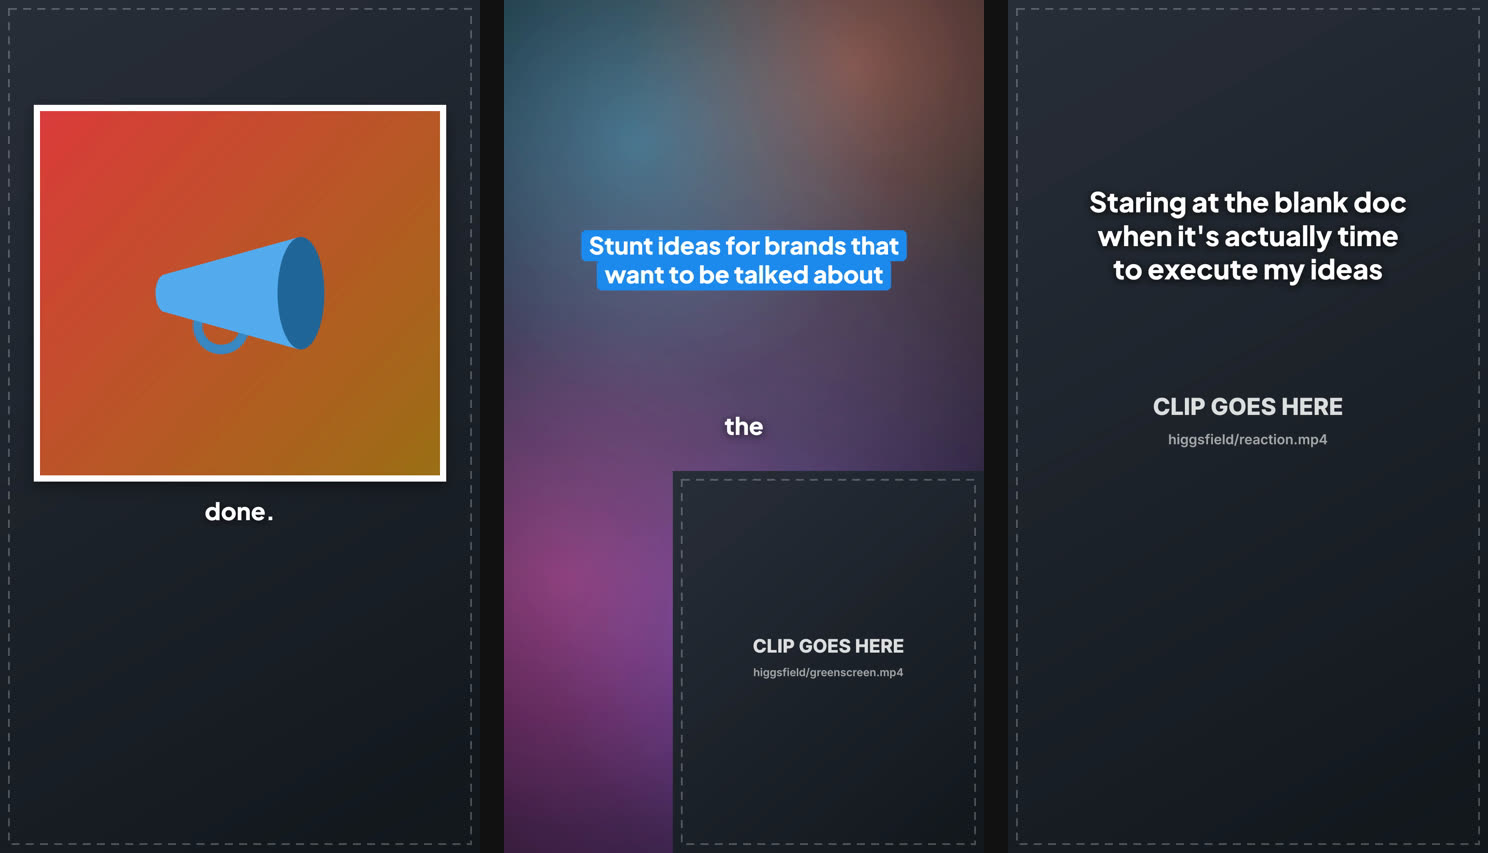
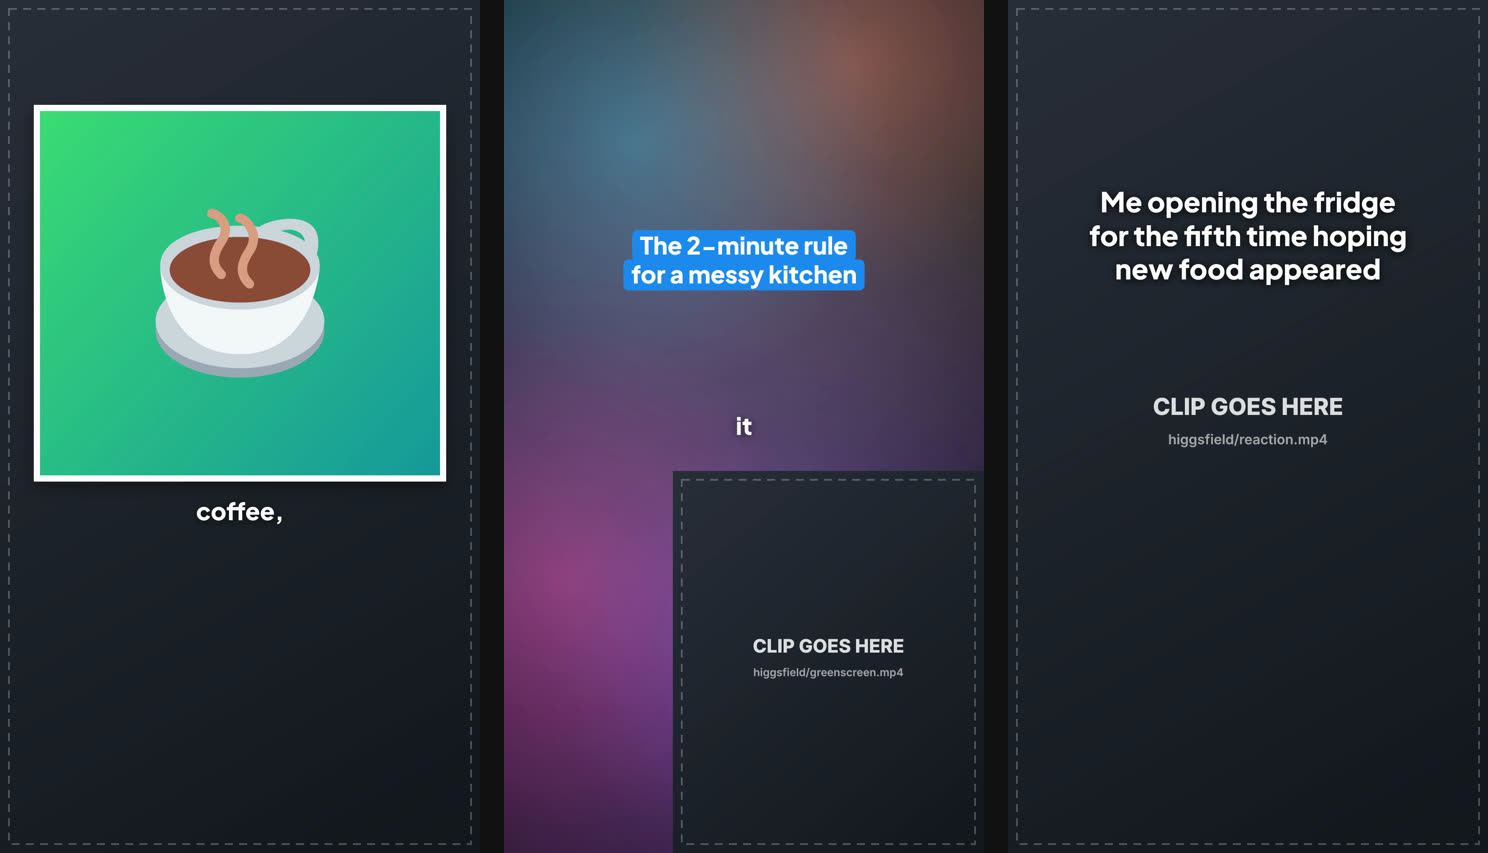
Generic examples, a modules map for any agent, llms.txt, and a caption timing fix
- Template defaults use original, generic examples.
- docs/MODULES.md (was TAKE-WHAT-YOU-NEED.md): comparison checklist and the pieces that lift out on
  their own; linked from README and AGENTS.md. llms.txt indexes the repo for agents.
- Fix: caption chunks computed their end before the next chunk's start was set, so every caption
  stayed ~0.35 s into the next one. Ends now meet the next start exactly (test added).

Claude-Session: https://claude.ai/code/session_01FPDqTNARkxhAQkVi6J1rR5

diff --git a/scenes/templates/rapid-list.html b/scenes/templates/rapid-list.html
@@ -12,7 +12,7 @@
 <body>
 <script>
 // Rapid list over a talking head: the creator fills the frame, a framed picture over the top swaps on
-// every item they say ("posters, mascots, billboards, murals..."), one word of caption at a time just
+// every item they say ("walk, stretch, journal, coffee..."), one word of caption at a time just
 // under the picture. ~1 picture a second; the list is the hook and the payoff is the last line.
 //
 // Data keys (spreadsheet columns / M.data):
@@ -24,12 +24,12 @@
 const D = M.data({
   name: 'rapid-list', duration: 9, hooks: [''],
   creator: '../../assets/higgsfield/talking-head.mp4',
-  transcript: 'There are a lot of ways to get it done. Posters, mascots, drone shows, coasters, murals, trucks, pop-ups. Pick one.',
+  transcript: 'My whole morning before seven. Walk, stretch, journal, coffee, plan the day. Then work.',
   items: [
-    { word: 'posters', emoji: '📣' }, { word: 'mascots', emoji: '🐶' }, { word: 'drone', emoji: '🚀' },
-    { word: 'coasters', emoji: '☕' }, { word: 'murals', emoji: '✨' }, { word: 'trucks', emoji: '🚚' }, { word: 'pop-ups', emoji: '🛍' },
+    { word: 'walk', emoji: '🐶' }, { word: 'stretch', emoji: '🧘' }, { word: 'journal', emoji: '📝' },
+    { word: 'coffee', emoji: '☕' }, { word: 'plan', emoji: '🗓' },
   ],
-  listStart: 2.2, listEnd: 7.2, music: 'calm', caption: '', hashtags: [],
+  listStart: 2.0, listEnd: 7.0, music: 'calm', caption: '', hashtags: [],
 });
 const HOOK = M.pick(D.hooks.length ? D.hooks : ['']);
 const DUR = Number(D.duration);

diff --git a/kit/blocks.js b/kit/blocks.js
@@ -615,8 +615,8 @@
 
   // ===================================================================================== creator formats
 
-  // A framed picture over the top of the frame that swaps on every item of a spoken list ("posters,
-  // mascots, billboards..."). items: [{ at, image?, video?, draw?(ctx, x, y, w, h, t) }]; the newest
+  // A framed picture over the top of the frame that swaps on every item of a spoken list ("walk,
+  // stretch, journal..."). items: [{ at, image?, video?, draw?(ctx, x, y, w, h, t) }]; the newest
   // started item shows. image/video come from M.image / M.video.
   //   B.photoPanel(ctx, t, { items: [{ at: 0.4, image: M.image('a.jpg') }, { at: 1.1, image: M.image('b.jpg') }] })
   B.photoPanel = (ctx, t, { items = [], x = 90, y = 240, w = 900, h = 860, border = 14, until = Infinity, pop = true } = {}) => {
@@ -642,7 +642,7 @@
 
   // Meme card: a white band across the top with black bold text, footage below it. Returns the band's
   // bottom so you can draw the footage from there.
-  //   const top = B.memeCard(ctx, t, { text: 'Me pitching a stunt to a CMO who wants a product photo' }).bottom;
+  //   const top = B.memeCard(ctx, t, { text: 'Me opening the fridge for the fifth time' }).bottom;
   B.memeCard = (ctx, t, { at = 0, until = Infinity, text = '', y = 220, w = 1080, size = 52, pad = 44, bg = '#FFFFFF', color = '#0E0E10' } = {}) => {
     if (t < at || t >= until) return { bottom: y };
     const f = font(800, size, F.display), lh = size * 1.2;

diff --git a/scenes/templates/title-explainer.html b/scenes/templates/title-explainer.html
@@ -14,7 +14,6 @@
 // Creator explains an idea over the thing itself: a background clip or photo fills the frame, the
 // creator sits in the bottom corner (green screen keyed out, or a plain clip in a frame), a title pill
 // is pinned near the top the whole time, and captions run one word at a time mid-frame.
-// ("Mega ping pong for brands?", "Stunt / prop campaign ideas for cool brands".)
 //
 // Data keys (spreadsheet columns / M.data):
 //   name, hooks (hook1..hook3: the title pill), titleStyle ('dark' | 'blue' | 'box'),
@@ -22,9 +21,9 @@
 //   key ('green' | 'blue' | '#hex' | '' = no keying: the creator shows in a rounded frame),
 //   corner ('right' | 'left'), duration, transcript (estimated captions), music, cta
 const D = M.data({
-  name: 'title-explainer', duration: 10, hooks: ['Stunt ideas for brands that want to be talked about'], titleStyle: 'blue',
+  name: 'title-explainer', duration: 10, hooks: ['The 2-minute rule for a messy kitchen'], titleStyle: 'blue',
   background: '', creator: '../../assets/higgsfield/greenscreen.mp4', key: 'green', corner: 'right',
-  transcript: 'Okay picture this. A ping pong table the size of a parking lot, and your logo on the net. People film it for you.',
+  transcript: 'If it takes under two minutes, do it now. Rinse the pan, wipe the counter, load the cup. The mess never piles up.',
   music: 'calm', cta: '', caption: '', hashtags: [],
 });
 const HOOK = M.pick(D.hooks);

diff --git a/scenes/templates/meme-caption.html b/scenes/templates/meme-caption.html
@@ -19,7 +19,7 @@
 //   name, hooks (hook1..hook3: the meme line), mode ('overlay' | 'card'), clip (path), audio (keep the
 //   clip's sound, default true), duration, music, cta
 const D = M.data({
-  name: 'meme-caption', duration: 7, hooks: ['Staring at the blank doc when it\'s actually time to execute my ideas'],
+  name: 'meme-caption', duration: 7, hooks: ['Me opening the fridge for the fifth time hoping new food appeared'],
   mode: 'overlay', clip: '../../assets/higgsfield/reaction.mp4', audio: true, music: '', cta: '', caption: '', hashtags: [],
 });
 const HOOK = M.pick(D.hooks);

diff --git a/kit/motion.js b/kit/motion.js
@@ -382,8 +382,8 @@
       if (brk) chunks.push(cur = { words: [] });
       cur.words.push(wd);
     });
+    chunks.forEach((c) => (c.s = c.words[0].s));     // all starts first: each end looks at the next start
     chunks.forEach((c, i) => {
-      c.s = c.words[0].s;
       const next = chunks[i + 1];
       const end = c.words[c.words.length - 1].e;
       c.e = next && next.s - end < 0.6 ? next.s : end + 0.35;

diff --git a/docs/MODULES.md b/docs/MODULES.md
@@ -1,8 +1,8 @@
-# Take what you need
+# Modules: use the whole kit, or lift one piece
 
-For an agent (or a person) who already has a video pipeline and wants to compare, not switch.
-Each piece below says what it does, where it lives, what it depends on, and how to lift it out.
-Most are single files with no ties to the rest of the kit.
+This repo is built so any coding agent can read it, compare it with the pipeline it already has, and
+take only what helps. Each piece below says what it does, where it lives, what it depends on, and how
+to lift it out. Most are single files with no ties to the rest of the kit. MIT licensed: copy freely.
 
 ## Quick comparison checklist
 

diff --git a/AGENTS.md b/AGENTS.md
@@ -2,6 +2,6 @@
 
 See CLAUDE.md: the same workflow applies to any coding agent.
 
-Already have your own video pipeline? Read docs/TAKE-WHAT-YOU-NEED.md: a comparison checklist and a map
-of the pieces you can lift out on their own (word-exact cutting, street-audio cleanup, face-following
-reframe, street-interview overlays, client review loop).
+Already have your own video pipeline? Read docs/MODULES.md: a comparison checklist and a map of the
+pieces you can lift out on their own (word-exact cutting, street-audio cleanup, face-following reframe,
+street-interview overlays, client review loop, delivery sheet, render self-checks).

diff --git a/README.md b/README.md
@@ -11,7 +11,9 @@ Exact timing, no timeline editor.
 
 **[See the examples with sound →](https://metacode2023.github.io/motion-factory-kit/)**
 
-Already have a pipeline? **[Take what you need →](docs/TAKE-WHAT-YOU-NEED.md)**: a checklist to compare against, and which pieces lift out on their own.
+**Use all of it, or one piece.** Already have a pipeline? Point your agent at
+[docs/MODULES.md](docs/MODULES.md): a checklist to compare against, and which pieces (word-exact cutting,
+street-audio cleanup, face-following reframe, overlays, client review loop) lift out on their own.
 
 ## What's in it
 
